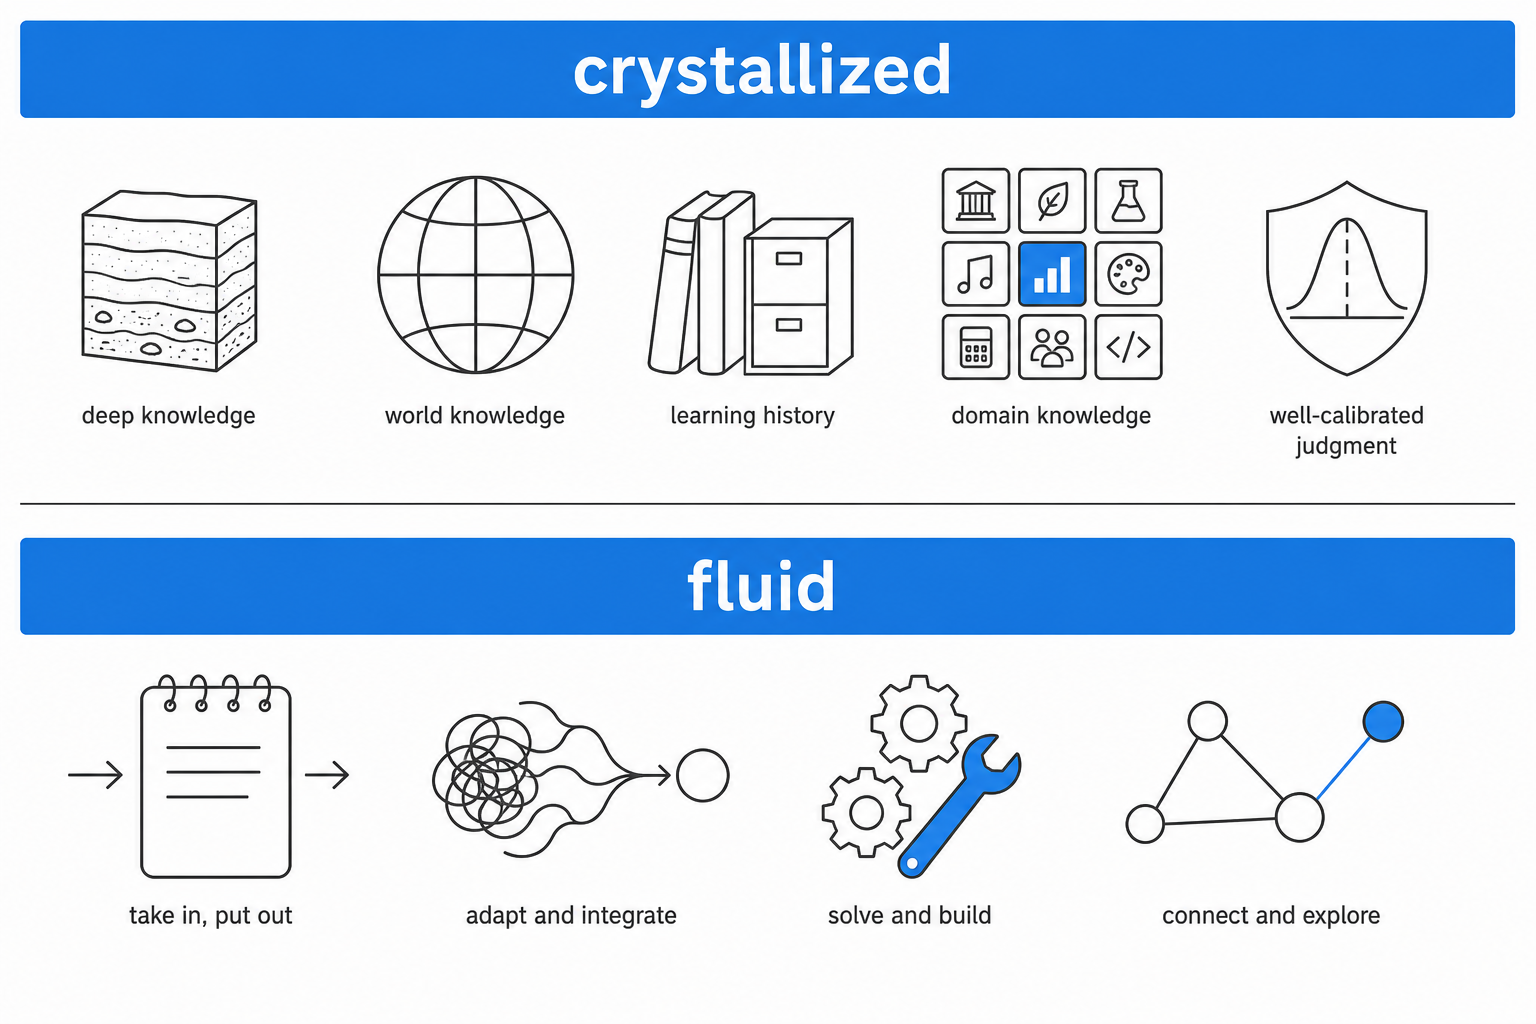
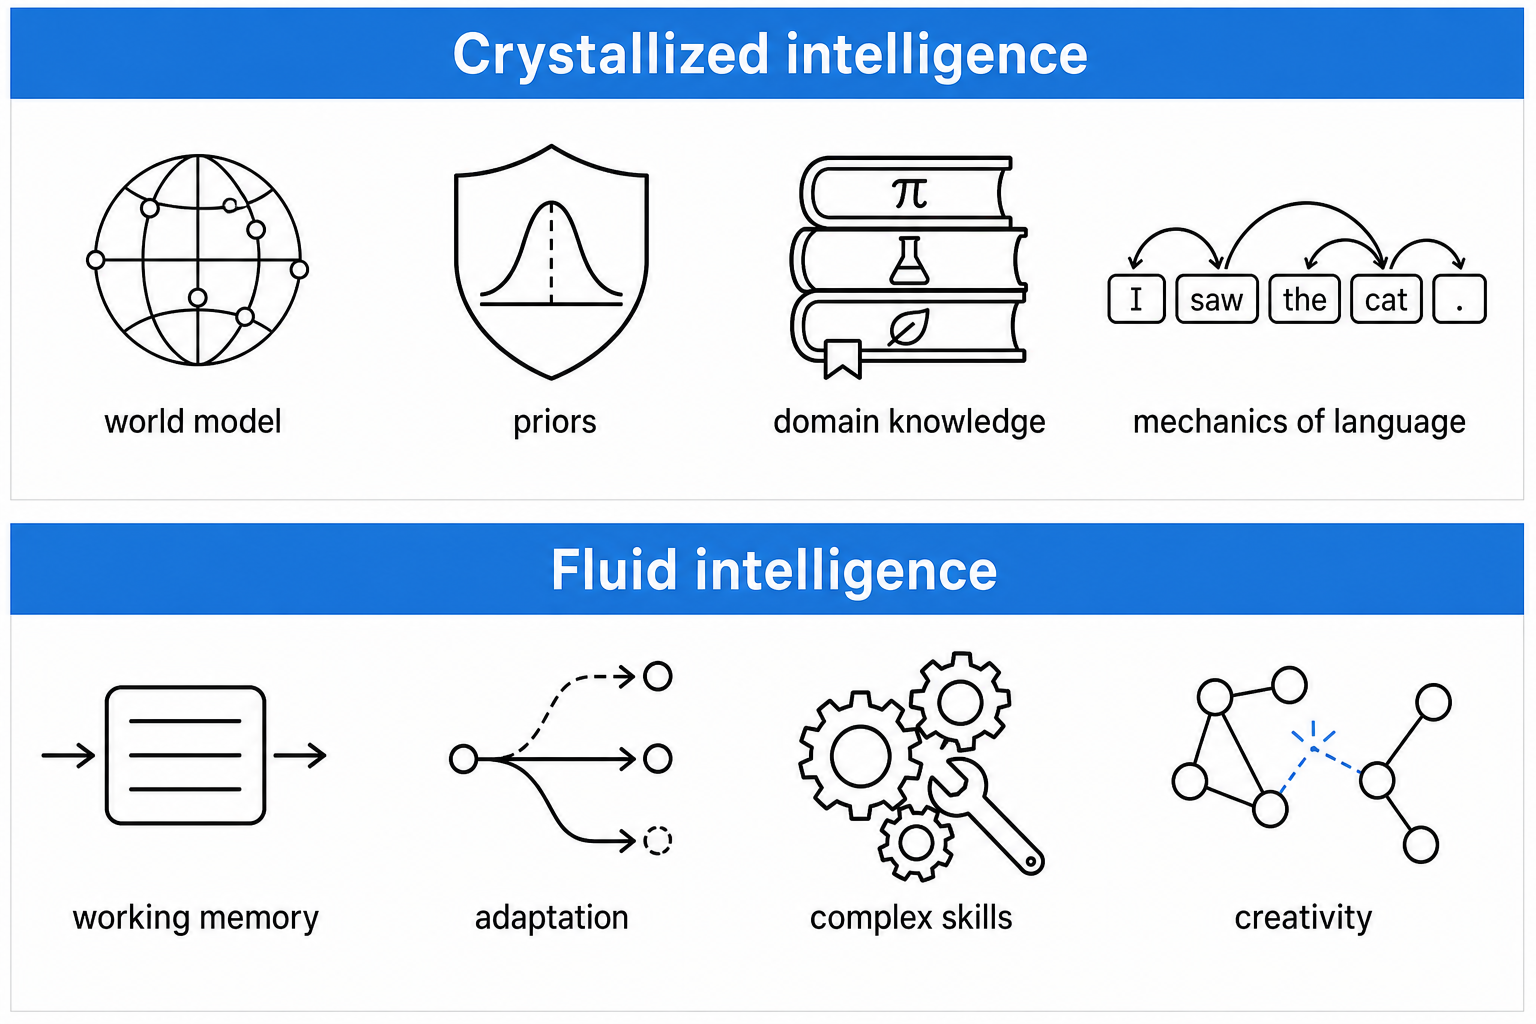
Some stylistic changes to intro and figures

diff --git a/src/plotting.py b/src/plotting.py
@@ -321,11 +321,14 @@ def _build_puzzle_figure(
     }
     fig.update_layout(**layout_dict)
 
-    # Triangle / "?" markers use paper coords. Triangle height tracks layout cell_size;
-    # "?" font is derived from the test output subplot size ÷ grid so it matches a cell
-    # on screen (layout cell_size can be a few px while the drawn cell is larger).
-    paper_aspect = figure_width / max(1.0, float(figure_height))
-    triangle_height_px = max(10.0, 4.0 * float(cell_size))
+    # Triangle / "?" use paper coords. Primary scale: figure height (stable on the slide).
+    # A cap in terms of cell_size keeps dense grids from growing huge when total figure
+    # height is similar but each ARC cell is much smaller (same width, fewer vs more columns).
+    _fh = float(figure_height)
+    _fw = float(figure_width)
+    _cell = float(cell_size)
+    paper_aspect = _fw / max(1.0, _fh)
+    triangle_height_px = max(12.0, min(0.185 * _fh, 4.5 * _cell))
 
     # Right-pointing triangles between input → output for each pair; "?" on test output cells
     for p, (in_grid, out_grid) in enumerate(pairs):
@@ -357,7 +360,7 @@ def _build_puzzle_figure(
         x_mid = (d_in[1] + d_out[0]) / 2
 
         gap_x = max(1e-6, d_out[0] - d_in[1])
-        triangle_height = triangle_height_px / float(figure_height)
+        triangle_height = triangle_height_px / _fh
         triangle_width = triangle_height / paper_aspect
         if triangle_width > gap_x * 0.88:
             triangle_width = gap_x * 0.88
@@ -379,27 +382,8 @@ def _build_puzzle_figure(
         )
         if out_grid is None:
             output_x_mid = (d_out[0] + d_out[1]) / 2
-            nr = max(len(in_grid) if in_grid else 0, 1)
-            nc = max(len(in_grid[0]) if in_grid and in_grid[0] else 0, 1)
-            out_w_px = (d_out[1] - d_out[0]) * float(figure_width)
-            out_h_px = (dy_out[1] - dy_out[0]) * float(figure_height)
-            cell_px = min(out_w_px / nc, out_h_px / nr)
-            # "?" ~ one cell visually; on dense grids tie to triangle / cell_size.
-            # Size is 4× that baseline (two +100% steps) for slide legibility.
-            _base = max(
-                22,
-                min(
-                    420,
-                    round(
-                        max(
-                            cell_px * 5.5,
-                            float(cell_size) * 5.0,
-                            triangle_height_px * 1.15,
-                        )
-                    ),
-                ),
-            )
-            mark_font = int(min(1680, max(88, round(_base * 4))))
+            # Track triangle size (~5.5× replaces the old _base*4 heuristic).
+            mark_font = int(max(48, min(560, round(5.5 * triangle_height_px))))
             fig.add_annotation(
                 x=output_x_mid,
                 y=y_mid_out,